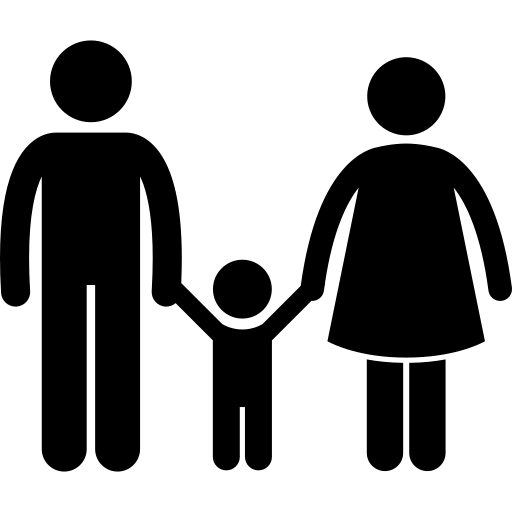
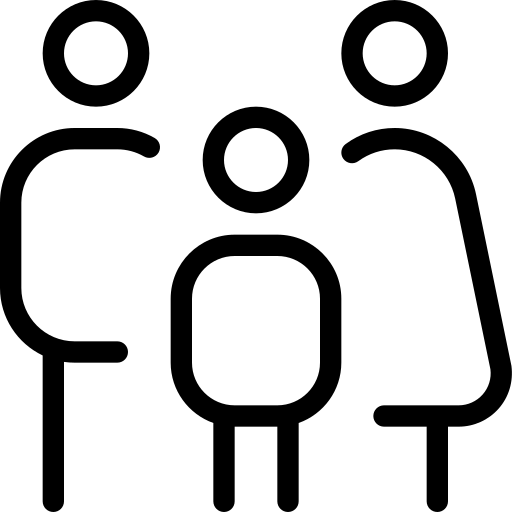
ui/ux changes

diff --git a/src/pages/ParentDashboard.tsx b/src/pages/ParentDashboard.tsx
@@ -123,13 +123,34 @@ export default function ParentDashboard() {
   return (
     <AppLayout>
       {/* Banner */}
-      <div className="relative w-full overflow-hidden rounded-2xl mb-6" style={{ background: "linear-gradient(135deg, #e8d5f5 0%, #d4b8f0 100%)" }}>
+      <div className="relative w-full overflow-hidden rounded-2xl mb-6" style={{ background: "linear-gradient(135deg, #2563EB 0%, #60A5FA 100%, #BFDBFE 100%)" }}>
+                  <div className="absolute top-6 right-40 w-14 h-14 rounded-full border border-white/60"></div>
+          <div className="absolute bottom-10 right-80 w-8 h-8 rounded-full border border-white/80"></div>
+          <div className="absolute top-16 left-1/2 w-6 h-6 rounded-full border border-white/80"></div>
+
+<div className="hidden md:block">
+          <div className="absolute top-12 left-[45%] text-white/80 text-xl">✦</div>
+          <div className="absolute bottom-16 left-[60%] text-white/50 text-lg">✦</div>
+          <div className="absolute top-24 right-[35%] text-white/80 text-lg">✦</div>
+          
+          <div className="absolute top-6 left-1/4 text-white/50 text-xl">✦</div>
+          <div className="absolute top-0 left-[45%] text-white/40 text-lg">✦</div>
+          <div className="absolute top-1/2 left-[70%] text-white/40 text-lg">✦</div>
+          <div className="absolute top-24 right-[45%] text-white/90 text-lg">✦</div>
+
+          <div className="absolute top-12 right-64 w-0 h-0 border-l-[12px] border-l-transparent border-r-[12px] border-r-transparent border-b-[20px] border-b-white/40"></div>
+
+          <div className="absolute bottom-16 left-72 w-0 h-0 border-l-[10px] border-l-transparent border-r-[10px] border-r-transparent border-b-[18px] border-b-white/40"></div>
+
+          <div className="absolute top-28 left-1/3 w-0 h-0 border-l-[8px] border-l-transparent border-r-[8px] border-r-transparent border-b-[14px] border-b-white/80"></div>
+</div>
         <div className="px-8 py-8 relative z-10">
           <h1 className="text-3xl font-bold text-gray-900 mb-1">Welcome, {selectedChildData?.full_name ?? "Parent"}</h1>
-          <p className="text-gray-600 text-sm">{new Date().toLocaleDateString("en-US", { weekday: "long", year: "numeric", month: "long", day: "numeric" })}</p>
-          <p className="text-gray-600 text-sm mt-1">Monitor your child's academic progress, homework, assessments and performance — all in one place.</p>
+          <p className="text-black-900 text-sm">{new Date().toLocaleDateString("en-US", { weekday: "long", year: "numeric", month: "long", day: "numeric" })}</p>
+          <p className="text-black-600 text-sm mt-1">Monitor your child's academic progress, homework, assessments and performance — all in one place.</p>
         </div>
-        <img src={parentBanner} alt="" className="absolute right-0 top-0 h-full object-cover opacity-80" style={{ maxWidth: "300px" }} />
+        <img src={parentBanner} alt="" 
+        className="hidden md:block absolute right-10 bottom-0 w-32" />
       </div>
 
       <div className="container mx-auto px-4 space-y-6">